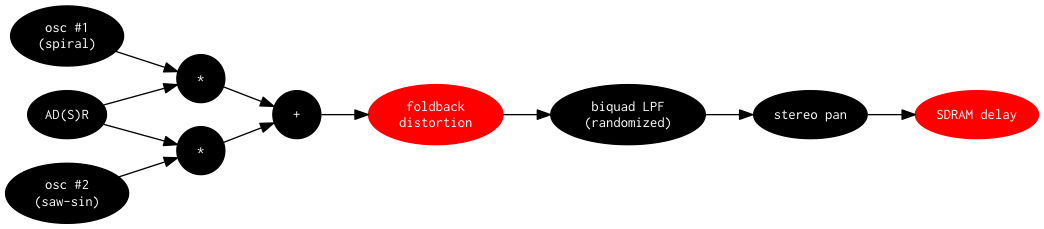
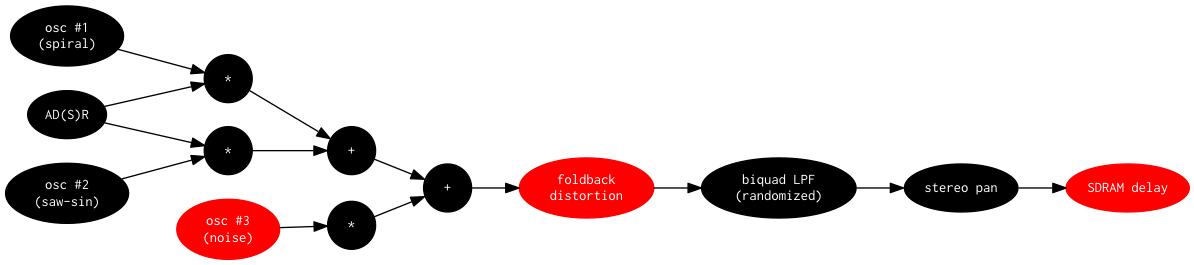
add noise osc to ex07, update readme & graphviz

Changed region(s): [[0.0, 0.0, 1.0, 1.0]]

diff --git a/src/ex07/main.c b/src/ex07/main.c
@@ -7,6 +7,7 @@
 #include "foldback.h"
 #include "node_ops.h"
 #include "osc.h"
+#include "osc_noise.h"
 #include "panning.h"
 #include "sdram_delay.h"
 #include "synth.h"
@@ -14,7 +15,7 @@
 #include "common/clockconfig.h"
 #include "ct-head/random.h"
 
-#define VOLUME 90
+#define VOLUME 80
 #define SAMPLE_RATE 44100
 
 #define AUDIO_DMA_BUFFER_SIZE 512
@@ -49,11 +50,14 @@ int main() {
   }
 
   ct_smush_init(&rnd, 0xcafebabe);
+  ctss_osc_noise_init();
   ctss_init(&synth, 2);
   ctss_add_global_lfo(&synth, ctss_osc("lfo1", ctss_process_osc_sin, 0.0f,
                                        HZ_TO_RAD(0.125f), 0.4f, 0.8f));
   ctss_add_global_lfo(&synth, ctss_osc("lfo2", ctss_process_osc_sin, 0.0f,
                                        HZ_TO_RAD(0.25f), 0.495f, 0.5f));
+  ctss_add_global_lfo(&synth, ctss_osc("lfo3", ctss_process_osc_tri, 0.0f,
+                                       HZ_TO_RAD(0.1f), 0.499f, 0.5f));
 
   for (uint8_t i = 0; i < synth.numStacks; i++) {
     init_voice(&synth, &synth.stacks[i]);
@@ -76,20 +80,27 @@ int main() {
   return 0;
 }
 
+// see README for DSP graph visualization
+
 static void init_voice(CTSS_Synth *synth, CTSS_DSPStack *stack) {
   CTSS_DSPNode *env =
       ctss_adsr("env", synth->lfo[0], 0.01f, 0.05f, 0.85f, 1.0f, 0.25f);
   CTSS_DSPNode *osc1 = ctss_osc("osc1", ctss_process_osc_spiral, 0, 0, 0.3f, 0);
   CTSS_DSPNode *osc2 = ctss_osc("osc2", ctss_process_osc_sawsin, 0, 0, 0.3f, 0);
+  CTSS_DSPNode *osc3 =
+      ctss_osc("osc3", ctss_process_osc_noise, 0, 0, 0.025f, 0);
   CTSS_DSPNode *sum  = ctss_op4("sum", osc1, env, osc2, env, ctss_process_madd);
-  CTSS_DSPNode *fb   = ctss_foldback("fb", sum, 0.1, 4.0f);
+  CTSS_DSPNode *nsum = ctss_op2("nsum", osc3, synth->lfo[2], ctss_process_mult);
+  CTSS_DSPNode *sum2 = ctss_op2("sum2", sum, nsum, ctss_process_sum);
+  CTSS_DSPNode *fb   = ctss_foldback("fb", sum2, 0.1, 4.0f);
   CTSS_DSPNode *filter =
       ctss_filter_biquad("filter", LPF, fb, 1000.0f, 0.0f, 0.5f);
   CTSS_DSPNode *pan = ctss_panning("pan", filter, synth->lfo[1], 0.0f);
   CTSS_DSPNode *delay =
       ctss_delay_sdram("delay", pan, (uint32_t)(SAMPLE_RATE * 0.5f), 0.9f, 2);
-  CTSS_DSPNode *nodes[] = {env, osc1, osc2, sum, fb, filter, pan, delay};
-  ctss_build_stack(stack, nodes, 8);
+  CTSS_DSPNode *nodes[] = {env,  osc1, osc2,   osc3, sum,  nsum,
+                           sum2, fb,   filter, pan,  delay};
+  ctss_build_stack(stack, nodes, 11);
 }
 
 static void trigger_note() {

diff --git a/src/ex07/osc_noise.c b/src/ex07/osc_noise.c
@@ -1,0 +1,22 @@
+#include "osc_noise.h"
+#include "ct-head/random.h"
+
+static CT_XorShift rnd;
+
+void ctss_osc_noise_init() {
+  ct_xors_init(&rnd);
+}
+
+uint8_t ctss_process_osc_noise(CTSS_DSPNode *node,
+                               CTSS_DSPStack *stack,
+                               CTSS_Synth *synth) {
+  CTSS_UNUSED(synth);
+  CTSS_UNUSED(stack);
+  CTSS_OscState *state = node->state;
+  float *buf           = node->buf;
+  size_t len           = AUDIO_BUFFER_SIZE;
+  while (len--) {
+    *buf++ = (state->gain * ct_xors_norm(&rnd)) + state->dcOffset;
+  }
+  return 0;
+}

diff --git a/src/ex07/osc_noise.h b/src/ex07/osc_noise.h
@@ -1,0 +1,6 @@
+#include "osc.h"
+
+void ctss_osc_noise_init();
+uint8_t ctss_process_osc_noise(CTSS_DSPNode *node,
+                               CTSS_DSPStack *stack,
+                               CTSS_Synth *synth);
